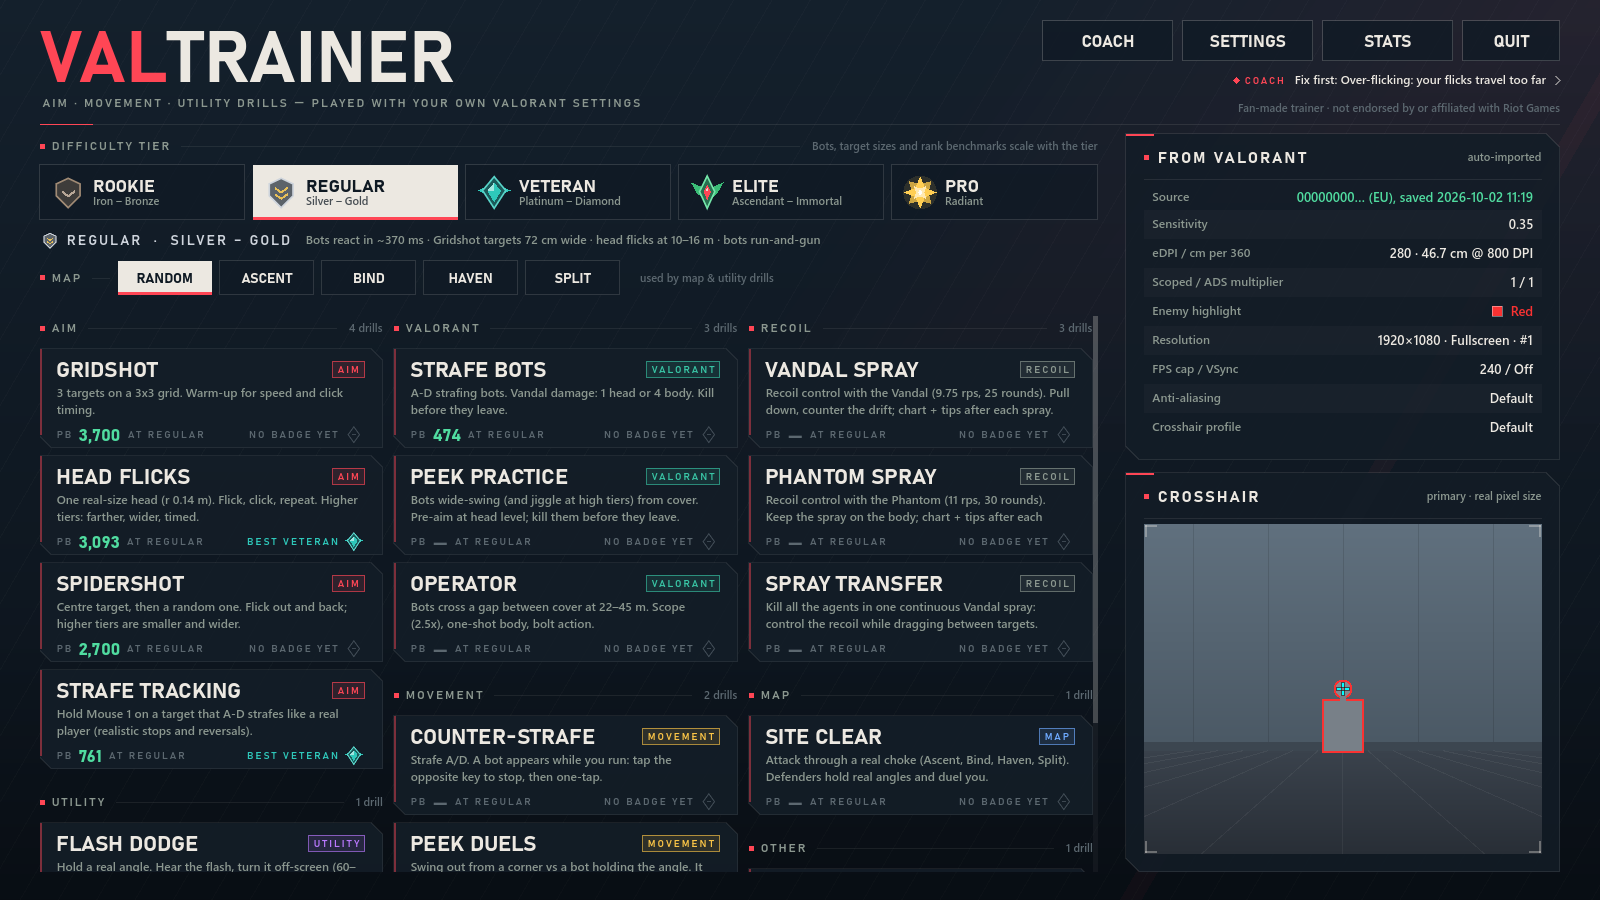
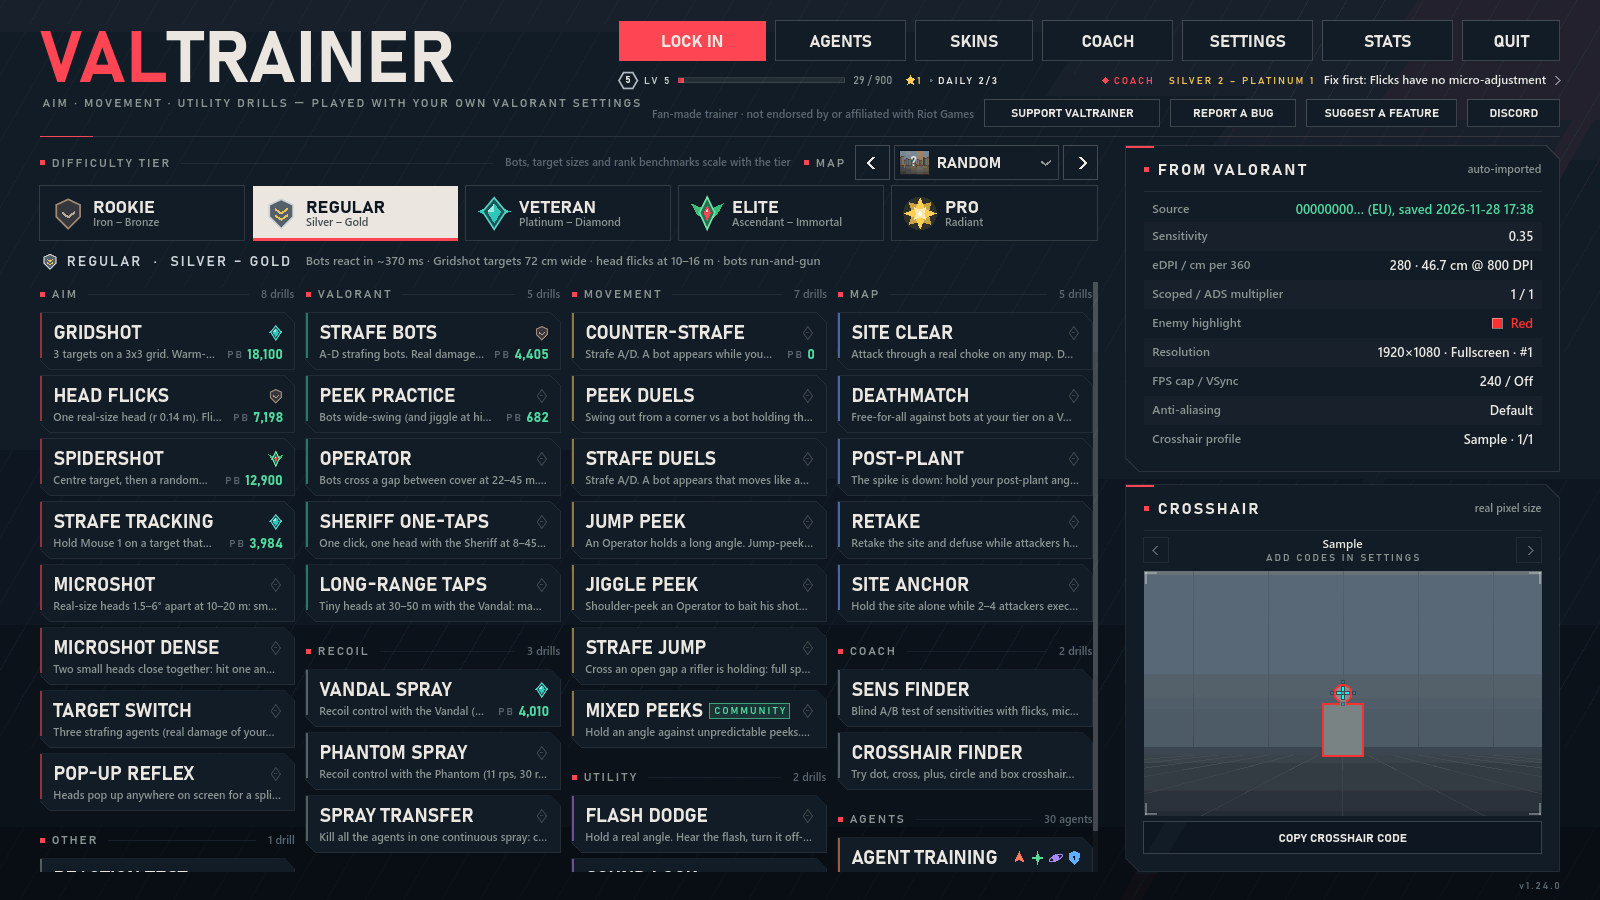
README: 1.24 facts (recoil from valorant.gs, bot reaction floors, counter-strafe) and fresh screenshots
- Weapons: recoil and spread from the game files via valorant.gs (credited and linked, also in
  the credits), Vandal climb/drift/spread/ADS numbers, ~1.9 s recovery after a full spray, Judge
  kick measured from Range footage, walking error curve, counter-strafe stop ~0.10 s, 20 guns.
- Difficulty tiers: fastest-reaction floor per tier, time-to-kill re-measured with
  --botreact-check (4.4 / 2.5 / 1.4 / 0.91 / 0.57 s), bots react only once you could see them.
- Drills: Microshot Dense, Sheriff One-Taps, Strafe Duels, Mixed Peeks, Strafe Jump.
- Graphics: viewmodel for every gun, skins, room themes.
- Aim coach: sens history (compare by sens / DPI / polling / setup), Sens Finder style and pad,
  short test, MICRO TEST card, Compare 2 sens.
- docs/images: all 4 screenshots retaken with 1.24.0 (--showcase, sample VALORANT profile,
  simulated runs in a temp --data-dir, --fakecoach).

Claude-Session: https://claude.ai/code/session_019Ew7Dy5pBY3V4XUtBaWJLH

diff --git a/README.md b/README.md
@@ -118,10 +118,10 @@ change VALORANT either: you set the new sensitivity yourself in VALORANT's setti
 
 | Category | Drills |
 |---|---|
-| Aim | Gridshot, Head Flicks, Spidershot, Strafe Tracking, Microshot (tiny corrections), Target Switch (three strafing agents), Pop-up Reflex (heads that vanish in a split second) |
-| VALORANT | Strafe Bots, Peek Practice, Operator, Long-range Taps (30–50 m Vandal taps with a recoil-reset ring) |
+| Aim | Gridshot, Head Flicks, Spidershot, Strafe Tracking, Microshot (tiny corrections), Microshot Dense (two small heads close together), Target Switch (three strafing agents), Pop-up Reflex (heads that vanish in a split second) |
+| VALORANT | Strafe Bots, Peek Practice, Operator, Sheriff One-Taps, Long-range Taps (30–50 m Vandal taps with a recoil-reset ring) |
 | Recoil | **Vandal Spray / Phantom Spray**: spray a standing agent and keep it on the body. A spray chart after every spray shows your bullets against the target and the raw pattern, with coaching ("pull down more", "counter the drift right"). Distance and the required spray length scale with the tier. **Spray Transfer**: kill every agent in one continuous spray. |
-| Movement | Counter-Strafe, Peek Duels (the bot shoots back), Jump Peek (spot an Operator mid-jump), Jiggle Peek (bait the Op, punish during his bolt) |
+| Movement | Counter-Strafe, Strafe Duels (a bot that strafes and stop-shoots like a player), Peek Duels (the bot shoots back), Mixed Peeks (hold an angle against baits and real peeks), Jump Peek (spot an Operator mid-jump, graded on every landing), Jiggle Peek (bait the Op, punish during his bolt), **Strafe Jump**: cross a gap a rifler is holding at full speed, graded on how long he saw you, the speed you kept and your landing |
 | Map | Site Clear, Deathmatch, Post-Plant (hold while defenders retake and defuse), Retake (clear and defuse before the spike blows), Site Anchor (hold a site alone against an execute) on Abyss, Ascent, Bind, Breeze, Corrode, Haven, Icebox, Lotus, Split, Summit and Sunset |
 | Utility | Flash Dodge (Phoenix, Breach, KAY/O, Skye, Yoru, Vyse, Gekko, using VALORANT's on-screen blind rule and per-agent timings and sounds), Sound Lock (pre-aim from footsteps) |
 | Agents | The **Agents** screen covers all 30 agents (Hush included): signature drills with the agent's own abilities (Flash & Peek, Recon & Clear, Smoke Execute, Mobility Entry, Site Anchor setups, Chamber Guns), drills for their role, and an agent Lock-In |
@@ -130,37 +130,52 @@ change VALORANT either: you set the new sensitivity yourself in VALORANT's setti
 
 ## Difficulty tiers (calibrated to ranks)
 
-| Tier | Ranks | Bot reaction | Bot's median time to kill you in the open |
-|---|---|---|---|
-| Rookie | Iron–Bronze | 480 ms | ≈4.4 s |
-| Regular | Silver–Gold | 370 ms | ≈2.4 s |
-| Veteran | Plat–Diamond | 290 ms | ≈1.4 s |
-| Elite | Ascendant–Immortal | 225 ms | ≈0.84 s |
-| Pro | Radiant | 180 ms | ≈0.53 s |
+| Tier | Ranks | Bot reaction (average) | Fastest possible reaction | Bot's median time to kill you in the open |
+|---|---|---|---|---|
+| Rookie | Iron–Bronze | 480 ms | 250 ms | ≈4.4 s |
+| Regular | Silver–Gold | 370 ms | 200 ms | ≈2.5 s |
+| Veteran | Plat–Diamond | 290 ms | 170 ms | ≈1.4 s |
+| Elite | Ascendant–Immortal | 225 ms | 155 ms | ≈0.91 s |
+| Pro | Radiant | 180 ms | 150 ms | ≈0.57 s |
 
 The low tiers were softened after playtesting: our bots have advantages no human has, such as perfect awareness and no
 peeker's advantage for you. In Flash Dodge, Rookie and Regular attackers walk or jog in, swing later, don't pre-aim your
 spot, and won't shoot while you're fully blind.
 
-- **How bots fight:** they react with a human-like delay, then move their crosshair onto you (Fitts' law). They fire the
-  Vandal with a per-shot hit chance against your 100 HP + 50 shield. They don't kill you instantly.
+- **How bots fight:** they only start reacting once you could see some of them too, never through a corner you can't
+  see past. They react with a human-like delay (never faster than the tier's floor above, re-peeks included), then move
+  their crosshair onto you (Fitts' law). Their crosshair is always a little off, so even a pre-aimed bot needs a small
+  correction. They fire with a per-shot hit chance against your 100 HP + 50 shield. They don't kill you instantly.
+- **What you feel:** when you swing a Pro (Radiant) bot, its first shot comes about 210–310 ms after it appears on your
+  screen, and never sooner than 150 ms.
 - **Aim drills:** target sizes, speeds and time limits scale with the tier, using aim-benchmark data.
 - **Results:** each result shows the rank tier you performed at. Personal bests are tracked per tier.
 
 ## Weapons
 
-- **Vandal:** full auto at 9.75 rounds/s, 25-round magazine. Its recoil follows Riot's documented system:
-  - a vertical climb that plateaus;
-  - side-locked horizontal drift with a 10% chance to switch sides;
-  - spread that grows per bullet;
-  - recovery of about 0.375 s after one tap and about 1.3 s after a full spray, with the camera drifting back.
-- **Phantom:** 11 rounds/s, 30-round magazine, damage falloff.
-- **Operator:** 2.5× scope, bolt action.
-- **Movement:** running adds 6° of inaccuracy and walking 3°. You are accurate below 27.5% of run speed, which is what
-  makes counter-strafing work.
-- **Stop timings:** braking matches Riot's measured Phantom stop times.
+Every gun in VALORANT (20 of them, from the Classic to the Odin), each with its own model, sounds and scope or
+aim-down-sights view. Pick one in a drill's preview (B). Fire rate, magazine, reload, damage by range and run speed are
+VALORANT's numbers.
 
-The per-bullet recoil numbers are reconstructed; Riot never published them.
+- **Recoil and spread come from the game files.** Every buyable gun's spray pattern, bullet spread, recovery, tap
+  efficiency and movement error are read from VALORANT's game files, as published by [valorant.gs](https://valorant.gs)
+  (thanks!). A few values the files don't show (such as the Shorty's recoil) are still our estimates. How we use the
+  numbers, gun by gun: [`recoil-1.24.md`](ValTrainerGodot/docs/research/recoil-1.24.md).
+- **Vandal:** full auto at 9.75 rounds/s, 25-round magazine.
+  - It kicks up 7.6° by the 8th bullet, then bounces around 7.5–8.4°;
+  - it drifts about 2° to one side and wobbles left and right (10% chance per bullet to switch sides);
+  - spread grows from 0.25° to 1° by the 6th bullet;
+  - aiming down sights cuts its recoil by 30%;
+  - recovery takes about 0.375 s after one tap and about 1.9 s after a full spray, with the camera drifting back.
+- **Phantom:** 11 rounds/s, 30-round magazine, damage falloff, climbs to about 6.5–7°.
+- **Operator:** 2.5× scope with a second 5× zoom, bolt action.
+- **Judge:** its kick was measured from VALORANT Range footage: about 2° per shot, settling before the next one.
+- **Movement:** shooting while walking costs 3° as soon as you go over 27.5% of run speed, up to about 4.7° at walking
+  speed with a rifle; running with a rifle costs 6°. Below 27.5% you are accurate, which is what makes counter-strafing work.
+- **Stop timings:** letting go of the keys stops you like in VALORANT; tapping the opposite key (counter-strafing) stops
+  you in about 0.10 s, measured from real VALORANT footage.
+
+Chamber's guns aren't in the game-file data, so their recoil is our estimate.
 
 ## Graphics
 
@@ -170,7 +185,10 @@ Real-time Godot Forward+ rendering:
   and red/gold, Split concrete and neon.
 - HDRI skies, sun shadows, AgX tonemapping, ambient occlusion and glow.
 - Animated enemy agents with VALORANT-style outlines and red fresnel; walls hide both.
-- A first-person viewmodel (gloved hands, recoil, sway, reload, bolt cycle) that never clips into walls.
+- A first-person viewmodel for every gun (gloved hands, recoil, sway, reload, bolt cycle, inspect) that never clips into
+  walls, with ValTrainer's own gun skins (cosmetic only).
+- Room themes for the aim and movement rooms (Settings → Graphics → Room theme): DARK and DEFAULT are free, six more
+  unlock as you level up. The maps keep their own look.
 - Muzzle flash, tracers, bullet-hole decals and per-agent flash effects.
 
 | Preset | FPS on a Quadro P2000 / GTX 1050 at 1080p |
@@ -199,10 +217,18 @@ recent runs are kept). The coach analyses them; the method is in
   - a recommended sensitivity, limited to ±18% per change and kept within 20–80 cm/360.
 - **Run review:** the results screen adds a short review of that run: a summary, the top problems with fixes, and what
   went well.
-- **Sens Finder:** a blind A/B test of about 16 minutes. You alternate between two unlabelled sensitivities using flicks,
-  micro-adjustments on tiny targets near your crosshair (M on the intro screen skips them) and strafe tracking, and it narrows down (bisects) to the one you score best with. It ends with a recommended VALORANT
-  sens, eDPI and cm/360, and a button to use it in ValTrainer. VALORANT itself is never changed; set it yourself in
-  VALORANT's settings.
+- **Your sens history** (in the coach's Sensitivity panel): if you change your sensitivity between sessions, it shows which
+  sens you actually score best with. Compare by sens, DPI, polling rate or the full setup. Each drill is only compared with
+  your own runs of the same drill, difficulty and gun, and it names a winner only when the difference is too big to be luck.
+- **Sens Finder:** a blind A/B test of about 16 minutes (a short test takes about half that). You alternate between two
+  unlabelled sensitivities using flicks, micro-adjustments on tiny targets near your crosshair (the MICRO TEST card turns
+  them off) and strafe tracking, and it narrows down (bisects) to the one you score best with. Tell it how you aim
+  (wrist, hybrid or arm) and your mousepad size, and it only tries sensitivities that suit you. It ends with a recommended
+  VALORANT sens, eDPI and cm/360, and a button to use it in ValTrainer.
+- **Compare 2 sens:** can't decide between two sensitivities? Enter both and play 8 short blind rounds (about 5 minutes).
+  It tells you which one you aimed better with and how sure that is, or that there was no clear difference.
+
+VALORANT itself is never changed; set a new sens yourself in VALORANT's settings.
 
 The ratings need data: play Head Flicks, Strafe Tracking, Peek Practice, Counter-Strafe and Vandal Spray a few times each.
 
@@ -265,6 +291,9 @@ Copyright (C) 2026 ValTrainer contributors.
 ValTrainer is free software: you can redistribute it and/or modify it under the terms of the
 **GNU General Public License, version 3 or (at your option) any later version** (SPDX: `GPL-3.0-or-later`). See
 [LICENSE](LICENSE). It is distributed in the hope that it will be useful, but without any warranty.
+
+Weapon recoil and spread data: [valorant.gs](https://valorant.gs), read from VALORANT's game files and used with credit
+under its terms.
 
 All 3D models, textures, skies and recorded sounds are CC0 (public domain); see
 [`ValTrainerGodot/CREDITS.md`](ValTrainerGodot/CREDITS.md). Synthesized sounds and procedural effects are original.
